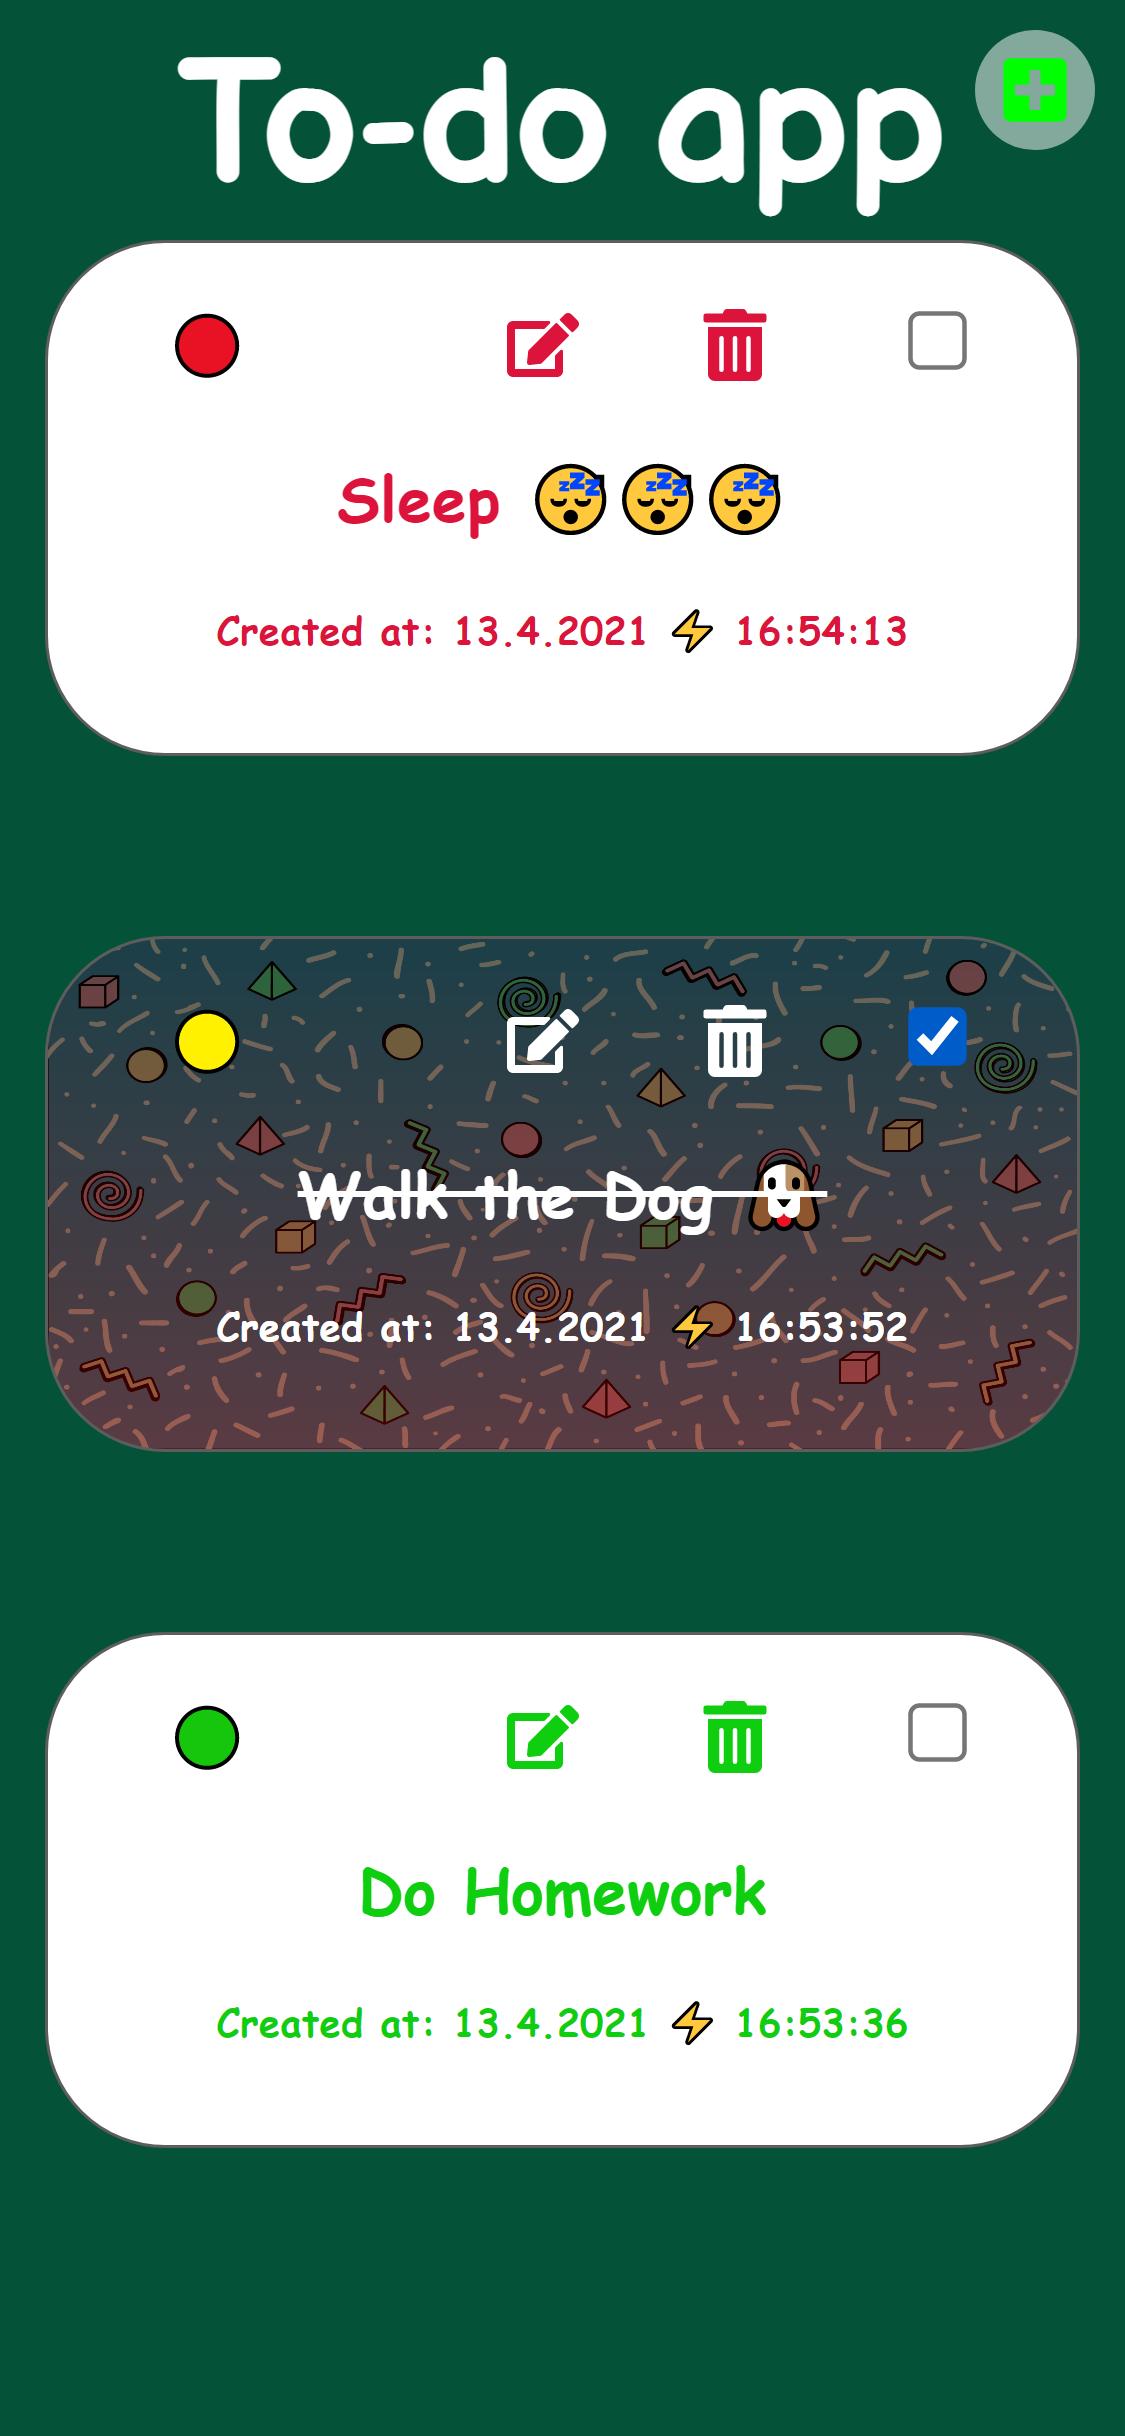
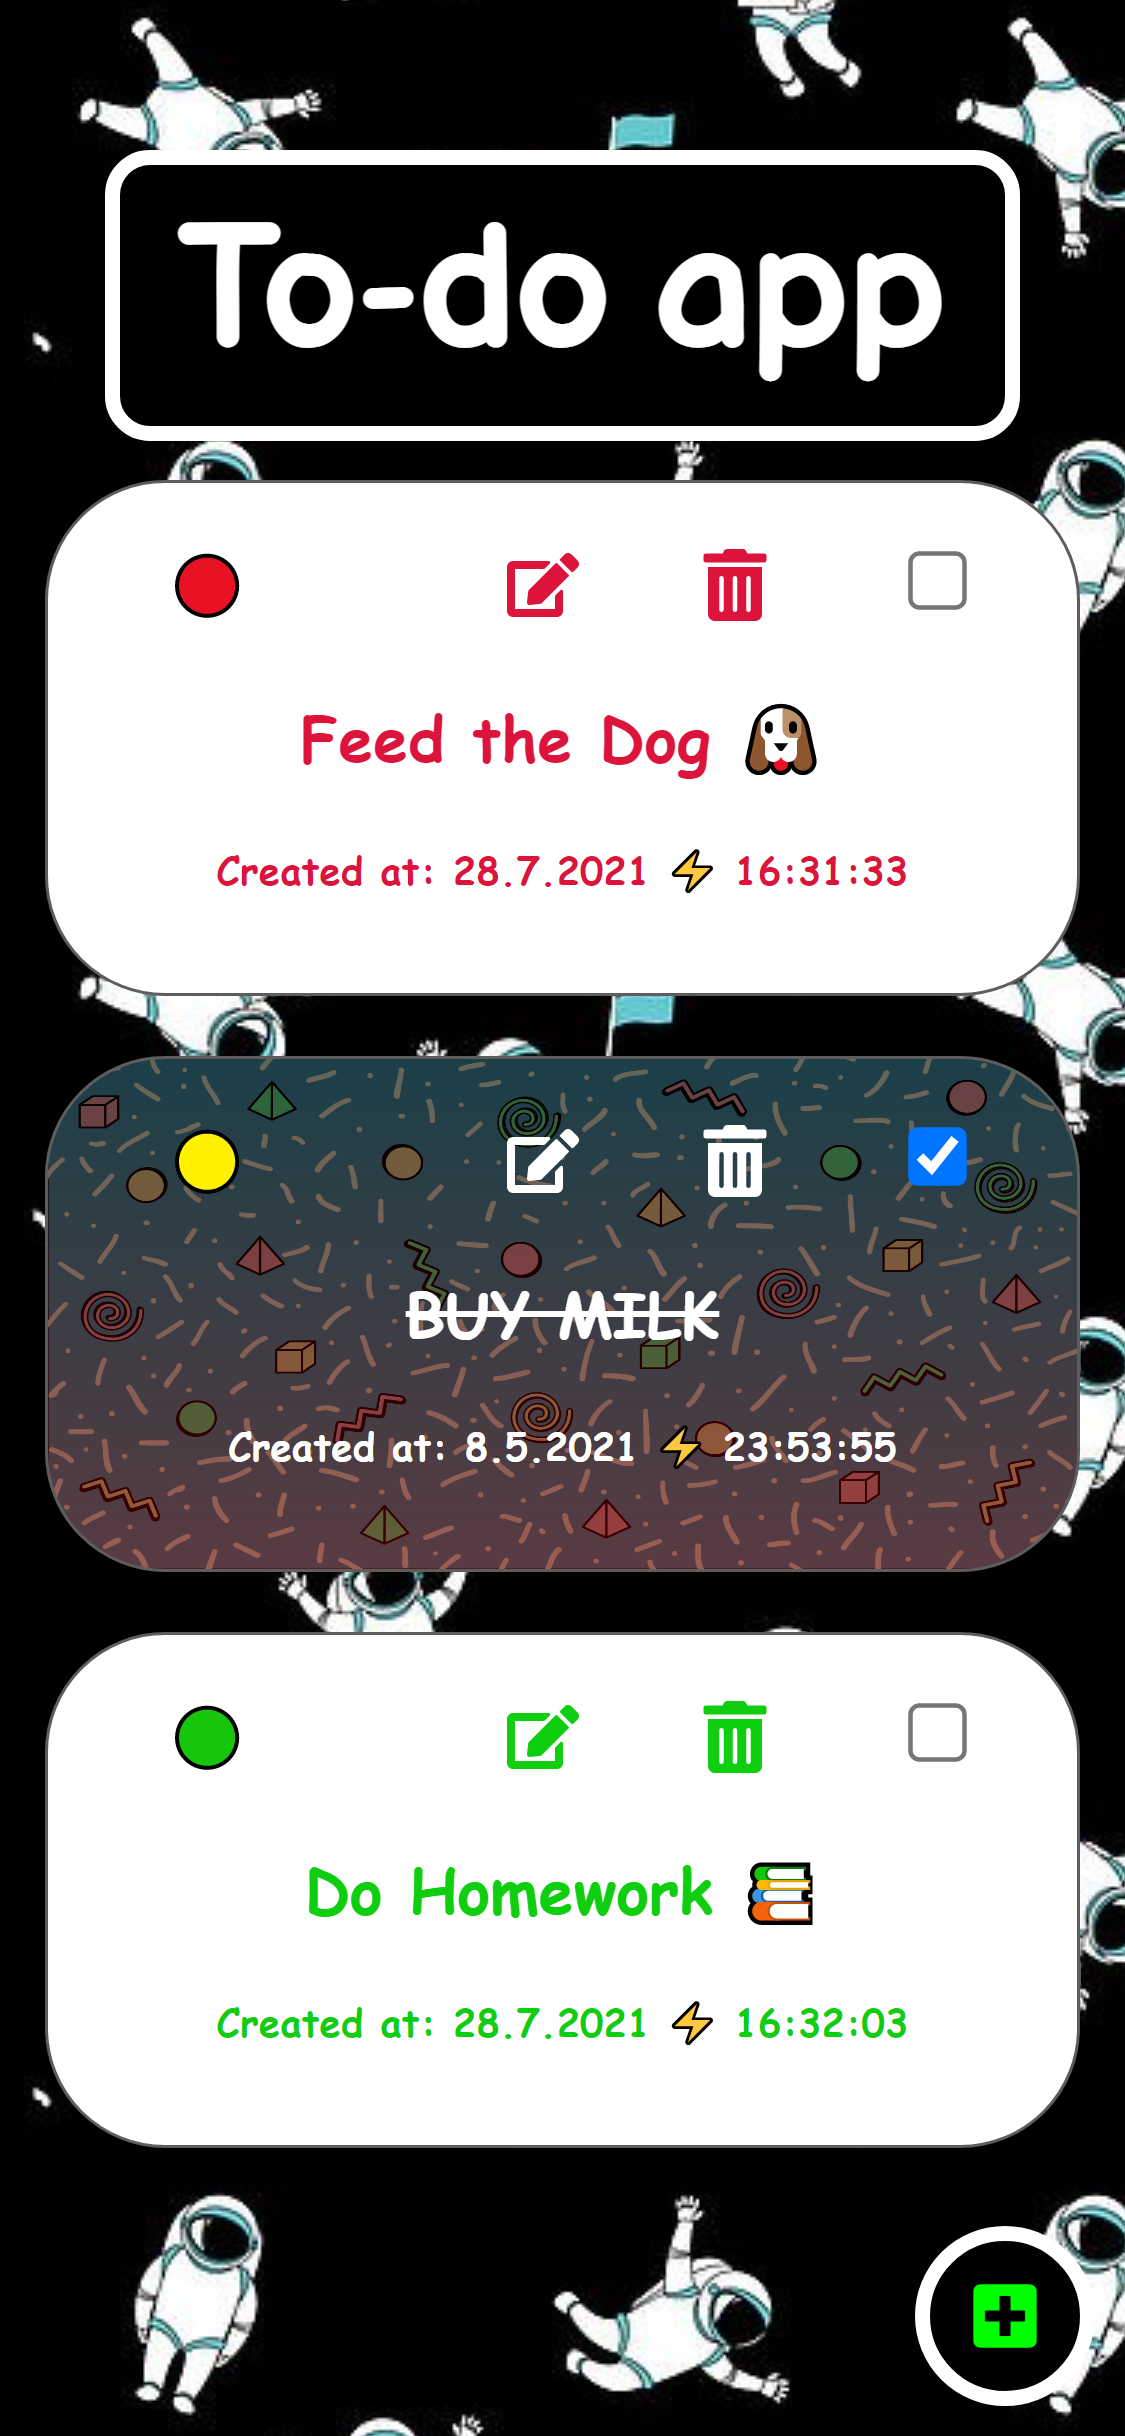
:tada: add new version of todo app to portfolio section

diff --git a/src/components/Protfolio/cardData.js b/src/components/Protfolio/cardData.js
@@ -76,19 +76,19 @@ export const projectsData = [
     img: ['/images/hoverBoard.png'],
     isMobile: false,
   },
-  // {
-  //   id: 6,
-  //   title: 'todo app',
-  //   description:
-  //     'A simple To-do app in React js with 3 levels of priority and internal sorting',
-  //   features: [
-  //     'Sortig todo`s by priorities level',
-  //     'using the Local Storage to Read/Write todo`s information',
-  //     'using functional components and React Hooks to implement the app logic',
-  //   ],
-  //   githubLink: 'https://github.com/develad/todo-app-v1',
-  //   websiteLink: 'https://develad.github.io/todo-app-v1/',
-  //   img: ['/images/todoApp.png'],
-  //   isMobile: true,
-  // },
+  {
+    id: 6,
+    title: 'todo app',
+    description:
+      'A simple To-do app in React js with 3 levels of priority and internal sorting',
+    features: [
+      'Sortig todo`s by priorities level',
+      'using the Local Storage to Read/Write todo`s information',
+      'using functional components and React Hooks to implement the app logic',
+    ],
+    githubLink: 'https://github.com/develad/todo-app-v1',
+    websiteLink: 'https://develad.github.io/todo-app-v1/',
+    img: ['/images/todoApp.png'],
+    isMobile: true,
+  },
 ];
